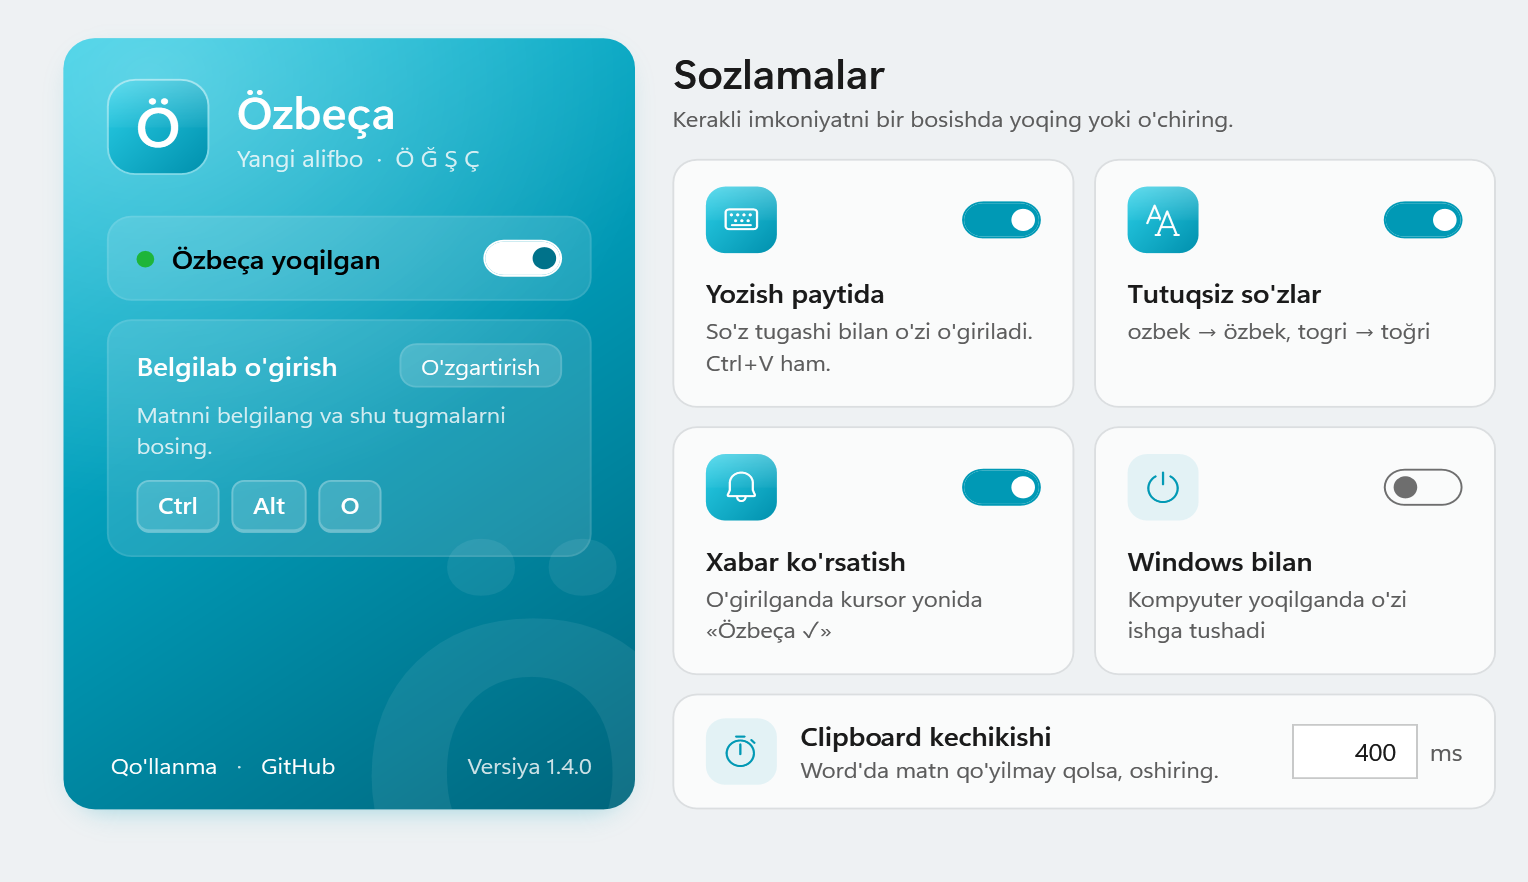
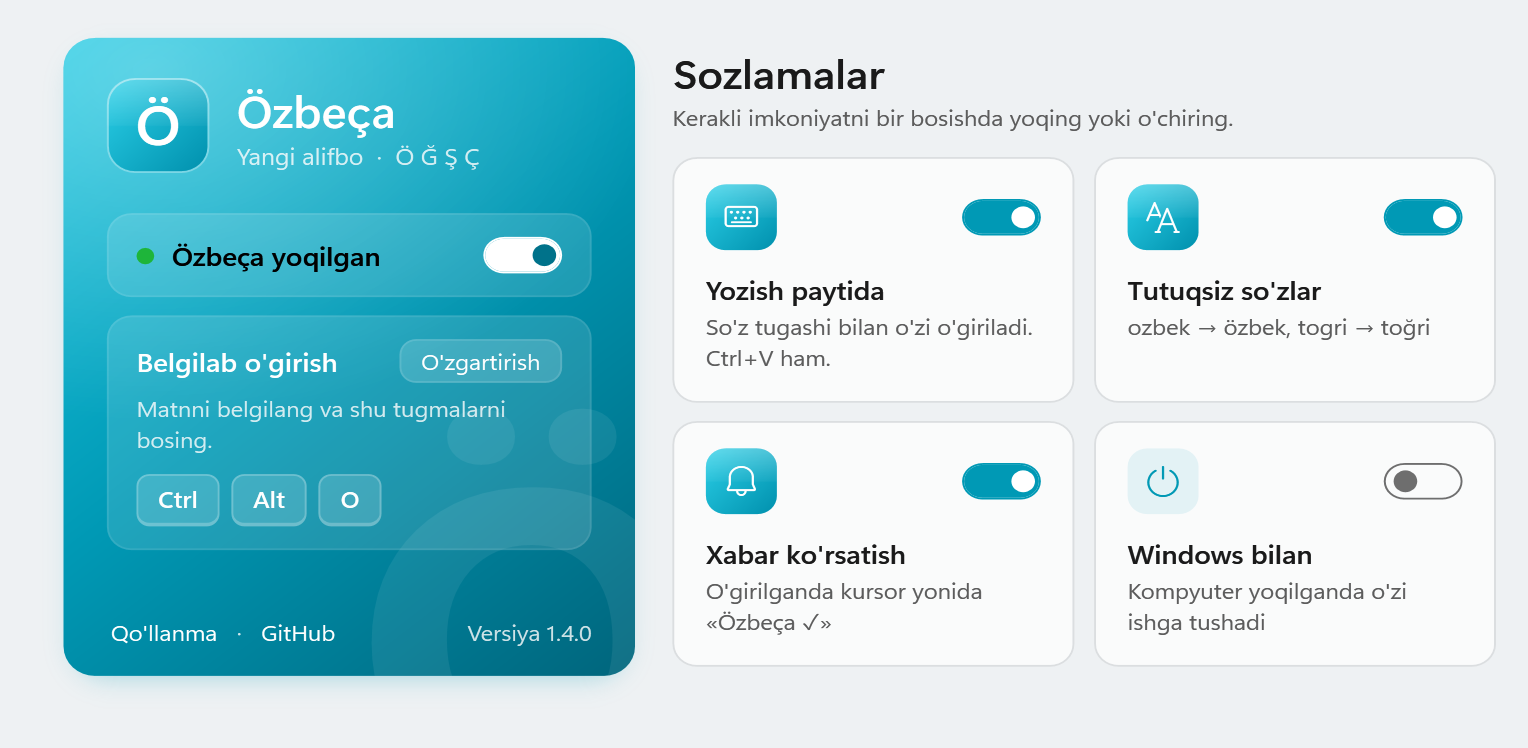
Sozlamalar: clipboard kechikishi UI'dan olib tashlandi — Office'da avtomatik 1000 ms

diff --git a/src/Ozbeca.App/SettingsWindow.xaml b/src/Ozbeca.App/SettingsWindow.xaml
@@ -112,29 +112,6 @@
                     </StackPanel>
                 </CheckBox>
             </UniformGrid>
-
-            <!-- Qo'shimcha: kamdan-kam kerak -->
-            <Border Style="{StaticResource Group}" Margin="5,5,5,0" Padding="16,12">
-                <Grid>
-                    <Grid.ColumnDefinitions>
-                        <ColumnDefinition Width="Auto" />
-                        <ColumnDefinition Width="*" />
-                        <ColumnDefinition Width="Auto" />
-                    </Grid.ColumnDefinitions>
-                    <Border Style="{StaticResource Badge}">
-                        <TextBlock Text="&#xE916;" Style="{StaticResource Glyph}" />
-                    </Border>
-                    <StackPanel Grid.Column="1" Margin="12,0,12,0" VerticalAlignment="Center">
-                        <TextBlock Text="Clipboard kechikishi" Style="{StaticResource RowTitle}" />
-                        <TextBlock Text="Word'da matn qo'yilmay qolsa, oshiring." Style="{StaticResource RowHint}" Margin="0,1,0,0" />
-                    </StackPanel>
-                    <StackPanel Grid.Column="2" Orientation="Horizontal" VerticalAlignment="Center">
-                        <TextBox x:Name="DelayBox" Style="{StaticResource Field}" Width="64" TextAlignment="Right"
-                                 LostKeyboardFocus="DelayBox_LostFocus" AutomationProperties.Name="Kechikish, millisekund" />
-                        <TextBlock Text="ms" Foreground="{DynamicResource Muted}" Margin="6,0,0,0" VerticalAlignment="Center" />
-                    </StackPanel>
-                </Grid>
-            </Border>
         </StackPanel>
     </Grid>
 </Window>

diff --git a/src/Ozbeca.App/SettingsWindow.xaml.cs b/src/Ozbeca.App/SettingsWindow.xaml.cs
@@ -25,7 +25,6 @@ public partial class SettingsWindow : Window
         ToastToggle.IsChecked = app.Settings.ShowToast;
         ApostropheToggle.IsChecked = app.Settings.RestoreApostrophes;
         AutostartToggle.IsChecked = Autostart.IsEnabled;
-        DelayBox.Text = app.Settings.RestoreDelayMs.ToString();
         VersionText.Text = "Versiya " + Theme.Version;
         ShowHotkey(app.Settings.Hotkey);
         UpdateStatus();
@@ -142,17 +141,6 @@ public partial class SettingsWindow : Window
     }
 
     private void AutostartToggle_Click(object sender, RoutedEventArgs e) => Autostart.Set(AutostartToggle.IsChecked == true);
-
-    private void DelayBox_LostFocus(object sender, KeyboardFocusChangedEventArgs e)
-    {
-        if (int.TryParse(DelayBox.Text, out int ms))
-        {
-            _app.Settings.RestoreDelayMs = Compat.Clamp(ms, 0, 5000);
-            _app.ApplyDelay();
-            _app.Settings.Save();
-        }
-        DelayBox.Text = _app.Settings.RestoreDelayMs.ToString();
-    }
 
     private void Guide_Click(object sender, RoutedEventArgs e) => Open(RepoUrl + "#readme");
     private void Github_Click(object sender, RoutedEventArgs e) => Open(RepoUrl);

diff --git a/src/Ozbeca.App/ConvertEngine.cs b/src/Ozbeca.App/ConvertEngine.cs
@@ -28,6 +28,7 @@ internal sealed class ConvertEngine
     };
 
     private const int CopyTimeoutMs = 600;
+    private const int OfficeRestoreDelayMs = 1000;
 
     private readonly ClipboardSwap _clip;
     private int _busy;
@@ -125,7 +126,8 @@ internal sealed class ConvertEngine
         if (!sent) Log.Write("SendInput: paste yuborilmadi");
 
         // Office kabi ilovalar clipboard'ni kechroq o'qiydi — shuning uchun darhol tiklanmaydi.
-        Thread.Sleep(RestoreDelayMs);
+        // Office'da avtomatik ko'proq kutiladi (UI'da sozlama yo'q; settings.json'dagi qiymat — eng kami).
+        Thread.Sleep(office ? Math.Max(RestoreDelayMs, OfficeRestoreDelayMs) : RestoreDelayMs);
         // Explorer kabi ba'zilari paste'dan keyin o'sha matnni clipboard'ga qayta yozadi (sequence o'zgaradi).
         // Matn hamon biznikiga teng bo'lsa — bu userning yangi ma'lumoti emas, tiklash xavfsiz.
         if (ClipboardSwap.Sequence == ours || _clip.ReadText() == converted) _clip.Restore(snapshot);

diff --git a/README.md b/README.md
@@ -176,13 +176,12 @@ Sozlamalarni ochish: soat yonidagi **Ö** belgisini yoki ish stolidagi **Özbeç
 
 <p align="center"><img src="docs/settings.png" width="680" alt="Sozlamalar oynasi"></p>
 
-- **Yoqilgan** (yuqori o'ng burchakda) — dasturni butunlay vaqtincha o'chiradi.
-- **Tezkor tugma** — **O'zgartirish** ni bosib, yangi kombinatsiyani bosing. U darhol tekshiriladi: boshqa dastur egallagan bo'lsa, ogohlantirish chiqadi.
-- **Yozilgan so'zni o'zi o'girsin** — yozish paytida avtomatik o'girish.
-- **Tutuqsiz so'zlarni tuzatish** — `ozbek` → `özbek` kabi. Lug'atda ~9 000 so'z bor, ular ochiq o'zbekcha matnlardan olingan. Ikki ma'noli so'zlar (`qol`, `ot`, `bor`) lug'atga kiritilmagan.
-- **O'girilganda xabar ko'rsatish** — "Özbeça ✓" xabari.
-- **Kompyuter yoqilganda ishga tushirish.**
-- **Clipboard'ni tiklash kechikishi** — biror ilovada matn qo'yilmay qolsa, oshiring (masalan, 400 → 800).
+- **Özbeça yoqilgan** (chap paneldagi tugma) — dasturni butunlay vaqtincha o'chiradi.
+- **Belgilab o'girish** — **O'zgartirish** ni bosib, yangi kombinatsiyani bosing. U darhol tekshiriladi: boshqa dastur egallagan bo'lsa, ogohlantirish chiqadi.
+- **Yozish paytida** — yozish paytida avtomatik o'girish.
+- **Tutuqsiz so'zlar** — `ozbek` → `özbek` kabi. Lug'atda ~9 000 so'z bor, ular ochiq o'zbekcha matnlardan olingan. Ikki ma'noli so'zlar (`qol`, `ot`, `bor`) lug'atga kiritilmagan.
+- **Xabar ko'rsatish** — "Özbeça ✓" xabari.
+- **Windows bilan** — kompyuter yoqilganda ishga tushadi.
 
 **Tray menyusi** (Ö belgisi ustida o'ng tugma): Yoqilgan · Yozish paytida o'girish · Kompyuter yoqilganda ishga tushirish · Sozlamalar… · Chiqish.
 
